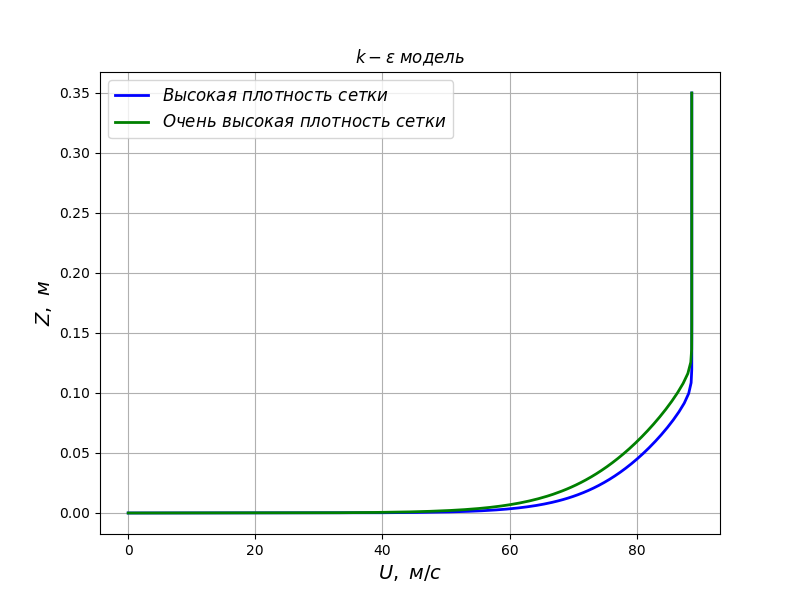
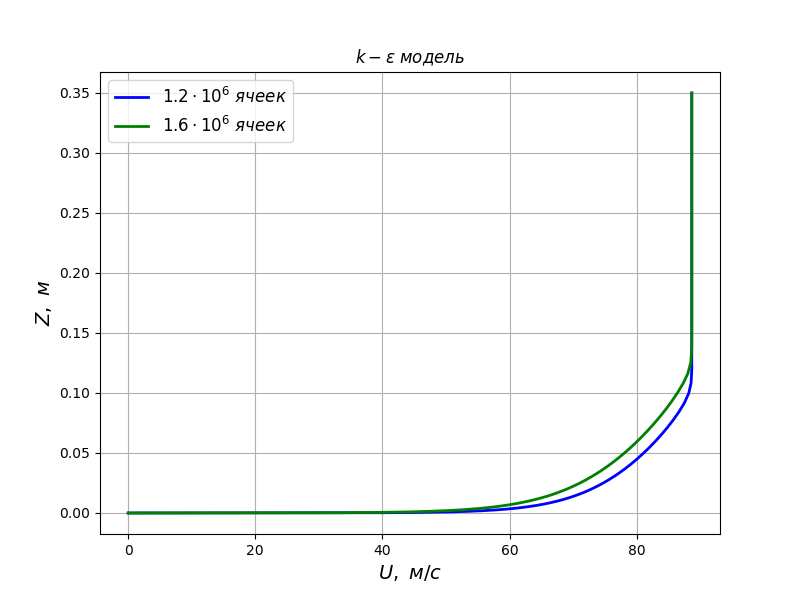
Correct plot titles

Changed region(s): [[0.125, 0.15, 0.5625, 0.24]]

diff --git a/plot_creation.py b/plot_creation.py
@@ -161,23 +161,23 @@ if __name__ == '__main__':
 
     plt.figure(figsize=(8, 6))
     plt.plot(av_grid_dens_sp_al_frames[0].U, av_grid_dens_sp_al_frames[0].Z, lw=2, color='red',
-             label=r'$Средняя\ плотность\ сетки$')
+             label=r'$1.0 \cdot 10^6\ ячеек$')
     plt.plot(high_grid_dens_sp_al_frames[0].U, high_grid_dens_sp_al_frames[0].Z, lw=2, color='blue',
-             label=r'$Высокая\ плотность\ сетки$', linestyle='-')
+             label=r'$1.2 \cdot 10^6\ ячеек$', linestyle='-')
     plt.plot(very_high_grid_dens_sp_al_frames[0].U, very_high_grid_dens_sp_al_frames[0].Z, lw=2, color='green',
-             label=r'$Очень\ высокая\ плотность\ сетки$', linestyle='-')
+             label=r'$1.6 \cdot 10^6\ ячеек$', linestyle='-')
     plt.title(r'$Модель\ Спаларта$')
     set_velocity_profile_plot()
     plt.savefig(os.path.join(plots_dir, 'density_comparison_sp_al_U_profile_line_0.png'))
 
     plt.figure(figsize=(8, 6))
     plt.plot(av_grid_dens_sp_al_frames[1].YPLUSPrime, av_grid_dens_sp_al_frames[1].UPLUS, lw=2, color='red',
-             label=r'$Средняя\ плотность\ сетки$')
+             label=r'$1.0 \cdot 10^6\ ячеек$')
     plt.plot(high_grid_dens_sp_al_frames[1].YPLUSPrime, high_grid_dens_sp_al_frames[1].UPLUS, lw=2, color='blue',
-             label=r'$Высокая\ плотность\ сетки$')
+             label=r'$1.2 \cdot 10^6\ ячеек$')
     plt.plot(very_high_grid_dens_sp_al_frames[1].YPLUSPrime, very_high_grid_dens_sp_al_frames[1].UPLUS, lw=2,
              color='green',
-             label=r'$Очень\ высокая\ плотность\ сетки$')
+             label=r'$1.6 \cdot 10^6\ ячеек$')
     plot_u_plus_theory()
     plt.title(r'$Модель\ Спаларта$')
     set_u_plus_plot()
@@ -185,12 +185,12 @@ if __name__ == '__main__':
 
     plt.figure(figsize=(8, 6))
     plt.plot(av_grid_dens_sp_al_frames[2].X, av_grid_dens_sp_al_frames[2].SkinFrictionCoefficient, lw=2, color='red',
-             label=r'$Средняя\ плотность\ сетки$')
+             label=r'$1 \cdot 10^6\ ячеек$')
     plt.plot(high_grid_dens_sp_al_frames[2].X, high_grid_dens_sp_al_frames[2].SkinFrictionCoefficient, lw=2,
              color='blue',
-             label=r'$Высокая\ плотность\ сетки$')
+             label=r'$1.2 \cdot 10^6\ ячеек$')
     plt.plot(very_high_grid_dens_sp_al_frames[2].X, very_high_grid_dens_sp_al_frames[2].SkinFrictionCoefficient, lw=2,
-             color='green', label=r'$Очень\ высокая\ плотность\ сетки$')
+             color='green', label=r'$1.6 \cdot 10^6\ ячеек$')
     plot_friction_coefficient_theory()
     plt.title(r'$Модель\ Спаларта$')
     set_friction_coefficient_plot()
@@ -202,18 +202,18 @@ if __name__ == '__main__':
 
     plt.figure(figsize=(8, 6))
     plt.plot(high_grid_dens_k_eps_frames[0].U, high_grid_dens_k_eps_frames[0].Z, lw=2, color='blue',
-             label=r'$Высокая\ плотность\ сетки$', linestyle='-')
+             label=r'$1.2 \cdot 10^6\ ячеек$', linestyle='-')
     plt.plot(very_high_grid_dens_k_eps_frames[0].U, very_high_grid_dens_k_eps_frames[0].Z, lw=2, color='green',
-             label=r'$Очень\ высокая\ плотность\ сетки$', linestyle='-')
+             label=r'$1.6 \cdot 10^6\ ячеек$', linestyle='-')
     plt.title(r'$k-\varepsilon\ модель$')
     set_velocity_profile_plot()
     plt.savefig(os.path.join(plots_dir, 'density_comparison_k_eps_U_profile_line_0.png'))
 
     plt.figure(figsize=(8, 6))
     plt.plot(high_grid_dens_k_eps_frames[1].YPLUSPrime, high_grid_dens_k_eps_frames[1].UPLUS, lw=2, color='blue',
-             label=r'$Высокая\ плотность\ сетки$')
+             label=r'$1.2 \cdot 10^6\ ячеек$')
     plt.plot(very_high_grid_dens_k_eps_frames[1].YPLUSPrime, very_high_grid_dens_k_eps_frames[1].UPLUS, lw=2,
-             color='green', label=r'$Очень\ высокая\ плотность\ сетки$')
+             color='green', label=r'$1.6 \cdot 10^6\ ячеек$')
     plot_u_plus_theory()
     plt.title(r'$k-\varepsilon\ модель$')
     set_u_plus_plot()
@@ -221,9 +221,9 @@ if __name__ == '__main__':
 
     plt.figure(figsize=(8, 6))
     plt.plot(high_grid_dens_k_eps_frames[2].X, high_grid_dens_k_eps_frames[2].SkinFrictionCoefficient, lw=2,
-             color='blue', label=r'$Высокая\ плотность\ сетки$')
+             color='blue', label=r'$1.2 \cdot 10^6\ ячеек$')
     plt.plot(very_high_grid_dens_k_eps_frames[2].X, very_high_grid_dens_k_eps_frames[2].SkinFrictionCoefficient, lw=2,
-             color='green', label=r'$Очень\ высокая\ плотность\ сетки$')
+             color='green', label=r'$1.6 \cdot 10^6\ ячеек$')
     plot_friction_coefficient_theory()
     plt.title(r'$k-\varepsilon\ модель$')
     set_friction_coefficient_plot()
